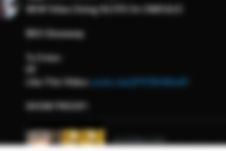
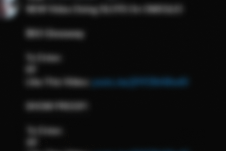
Update contact page

Changed region(s): [[0.0, 0.8212, 1.0, 1.0], [0.1239, 0.8212, 0.1549, 0.8477]]

diff --git a/website/static/css/contact.css b/website/static/css/contact.css
@@ -15,10 +15,16 @@
 
 .contact {
     display: block;
-    max-width: 300px;
-    margin: 10px 10px 60px 10px;
+    width: 230px;
+    height: 150px;
+    margin: 20px 10px 100px 10px;
     position: relative;
     border-radius: 10px;
+}
+
+.contact .profile-picture {
+    height: 100px;
+    width: 100px;
 }
 
 .contact .overlay,
@@ -36,10 +42,16 @@
     height: 100%;
     border-radius: 10px;
     margin-top: 50px;
+    margin-left: -2px;
+    background: linear-gradient(0deg, rgb(var(--colour)) 0%, rgba(var(--colour), 0.2) 50%, rgba(var(--colour), 0) 100%);
+    padding: 2px;
 }
 
 .contact .overlay {
     z-index: 20;
+    background: linear-gradient(0deg, rgba(var(--colour), 0.5) 0%, rgba(var(--colour), 0.2) 50%, rgba(var(--colour), 0) 100%);
+    top: 52px;
+    border-radius: 5px;
 }
 
 .contact .information {
@@ -53,12 +65,19 @@
     border-radius: 50%;
 }
 
-.contact .information .name {
+.contact .information .name{
     margin: 0;
-    margin-top: 42px;
+    margin-top: 20px;
+    font-size: 1.5em;
 }
 
 .contact .information .logo {
-    margin-top: 52px;
+    margin-top: 30px;
     width: 40px;
+}
+
+.contact a,
+.contact a:visited {
+    color: white;
+    text-decoration: none;
 }
